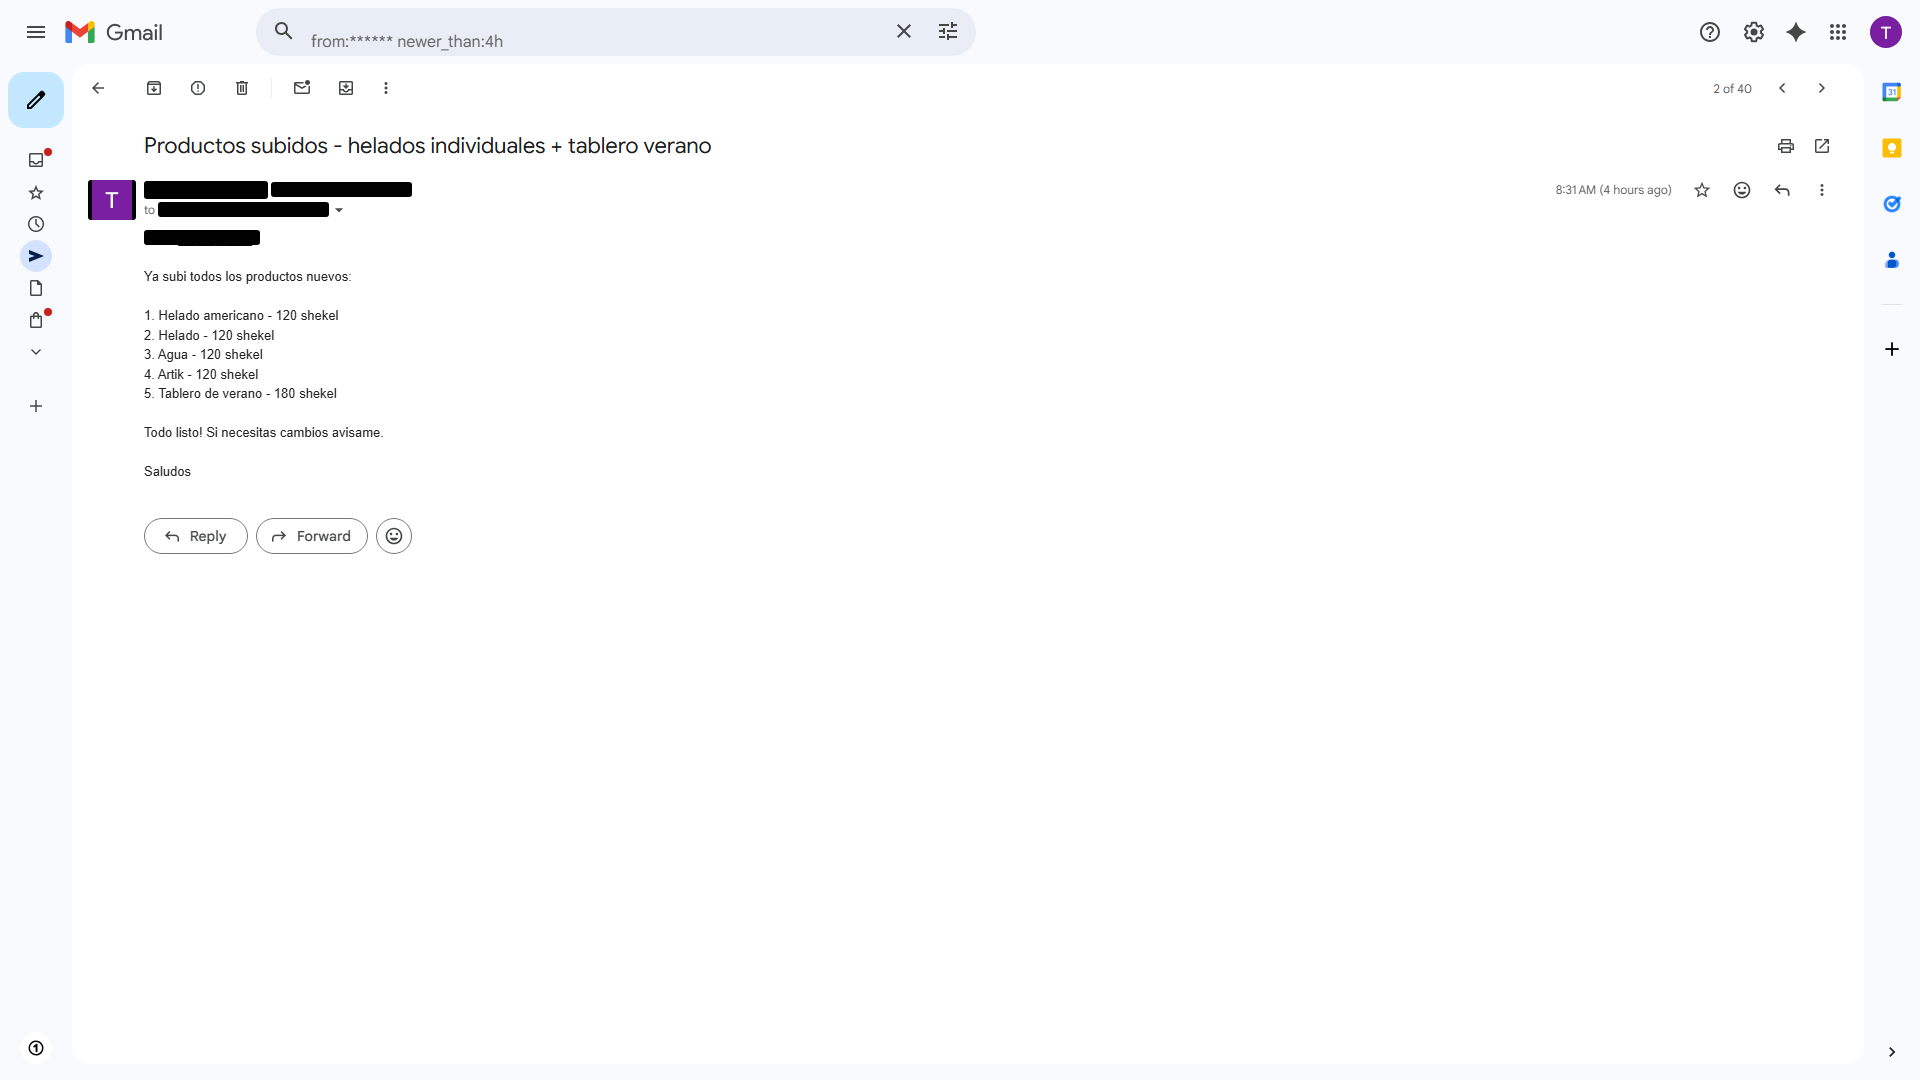
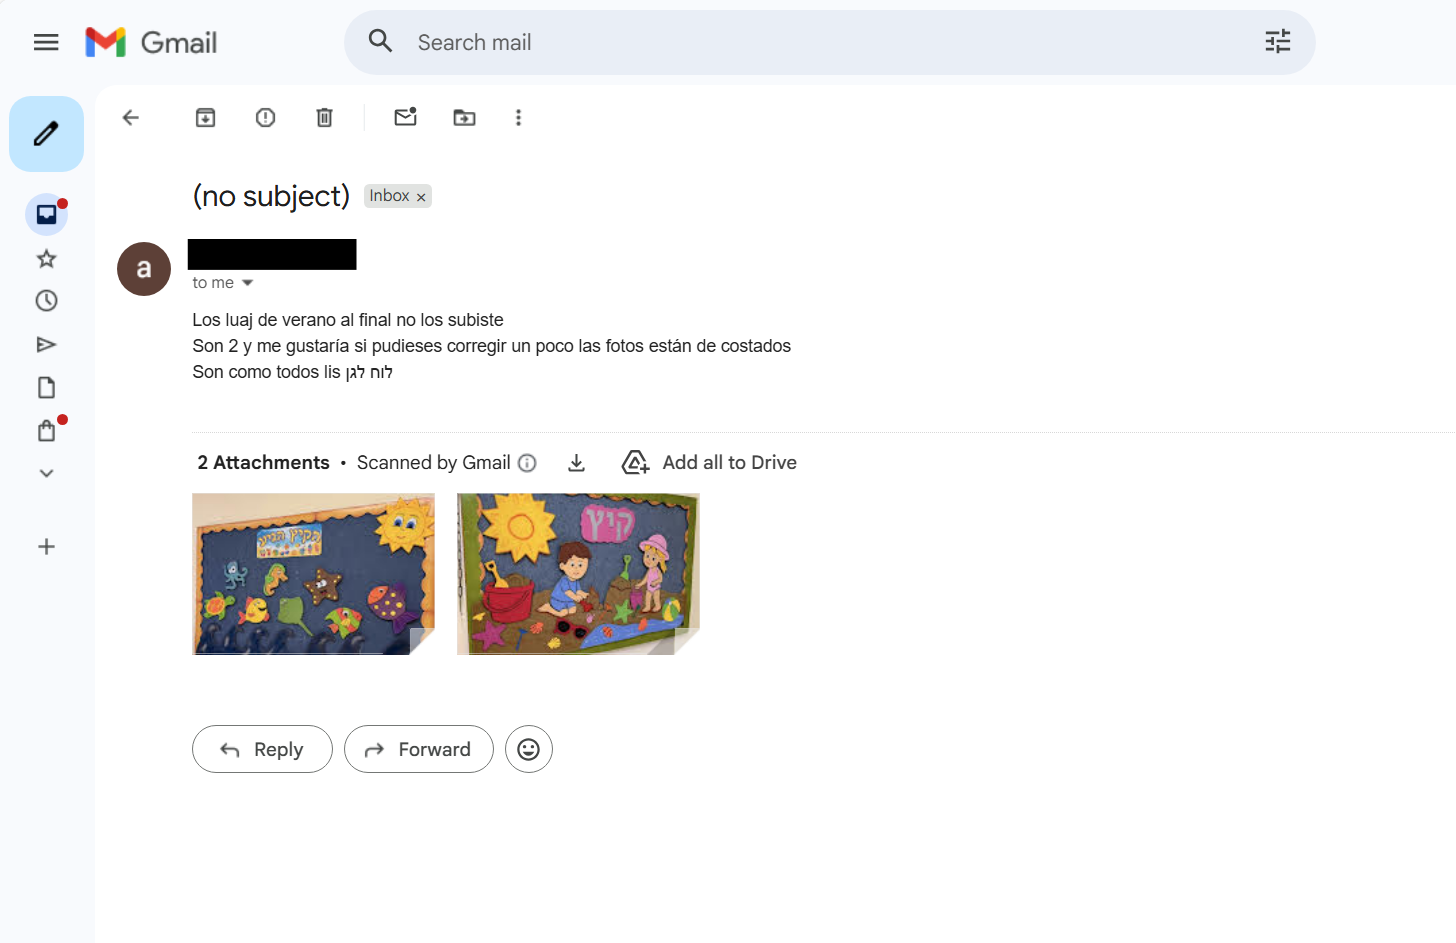
Replace screenshot 1 with manually censored version, update caption

diff --git a/_posts/2026-04-09-ai-agents-for-family-store.md b/_posts/2026-04-09-ai-agents-for-family-store.md
@@ -32,8 +32,8 @@ Here's what actually happens now:
 4. Opens Wix Dashboard in a browser, creates the product with a Hebrew name, Hebrew description, correct category, mandatory legal disclaimers, and the uploaded photo
 5. Replies in Spanish: "Hola! Ya subí el producto 🎉"
 
-![An incoming email mixing Spanish instructions with Hebrew product names](/assets/ai-family-store/linkedin-1-incoming-email.png)
-*The email — Spanish instructions, Hebrew product names, and an attached photo. The agent takes it from here.*
+![An email in Spanish requesting summer board uploads, with two colorful kindergarten board photos attached and Hebrew product name לוח לגן](/assets/ai-family-store/linkedin-1-incoming-email.png)
+*The email — Spanish instructions, Hebrew product names, two product photos attached. The agent takes it from here.*
 
 No code deployed. No Wix API integration. No app. Just a browser automation agent that reads email, understands context in three languages, and does the actual work.
 
